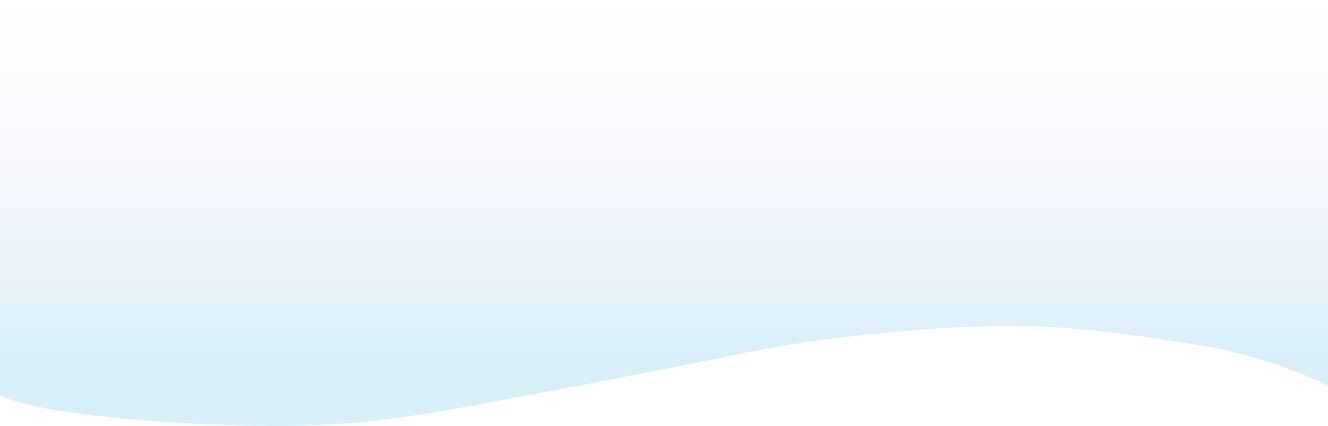
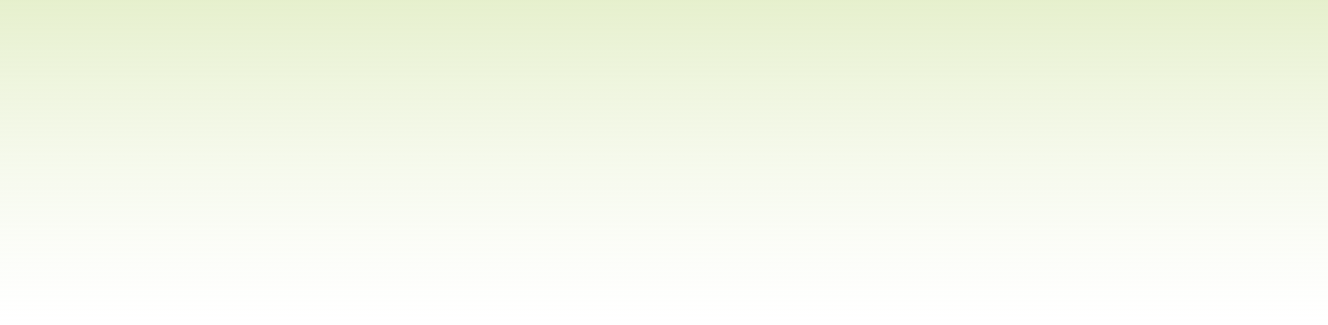
Tema 1

diff --git a/src/views/curso/Tema1.vue b/src/views/curso/Tema1.vue
@@ -1,11 +1,164 @@
 <template lang="pug">
 .curso-main-container.pb-3
-  BannerInterno(:subTitulo="'1. Título tema'")
+  BannerInterno(:subTitulo="'1. Patrimonio mundial'")
   .container.tarjeta.tarjeta--blanca.p-4.p-md-5.overflow-hidden
 
-    #t_1_1.titulo-segundo(data-aos="flip-up")
-      h2 #[span 1.1] Subtítulo tema
+    p Las bellas artes son la clasificación de las manifestaciones artísticas creativas que se enfocan en la expresión estética y la creación de obras valoradas por su belleza o su mensaje. Se considera que las bellas artes incluyen siete disciplinas principales: 
 
+    .bg-full-width.bg-fondo-1
+      .px-4.px-md-5.pb-md-3
+        .row.justify-content-center.mb-5
+          .col-lg-8
+    
+            SlyderF(columnas="col-12 col-lg-6")
+              .custom-image-card-2.h-100
+                img.custom-image-card__image(src="@/assets/curso/tema1/1.png" alt="")
+                .custom-image-card__text.p-4
+                  h5.mb-2.text-center Arquitectura
+              .custom-image-card-2.h-100
+                img.custom-image-card__image(src="@/assets/curso/tema1/2.png" alt="")
+                .custom-image-card__text.p-4
+                  h5.mb-2.text-center Escultura
+              .custom-image-card-2.h-100
+                img.custom-image-card__image(src="@/assets/curso/tema1/3.png" alt="")
+                .custom-image-card__text.p-4
+                  h5.mb-2.text-center Pintura
+              .custom-image-card-2.h-100
+                img.custom-image-card__image(src="@/assets/curso/tema1/4.png" alt="")
+                .custom-image-card__text.p-4
+                  h5.mb-2.text-center Música
+              .custom-image-card-2.h-100
+                img.custom-image-card__image(src="@/assets/curso/tema1/5.png" alt="")
+                .custom-image-card__text.p-4
+                  h5.mb-2.text-center Danza
+              .custom-image-card-2.h-100
+                img.custom-image-card__image(src="@/assets/curso/tema1/6.png" alt="")
+                .custom-image-card__text.p-4
+                  h5.mb-2.text-center Literatura
+              .custom-image-card-2.h-100
+                img.custom-image-card__image(src="@/assets/curso/tema1/7.png" alt="")
+                .custom-image-card__text.p-4
+                  h5.mb-2.text-center Cine
+    
+          .col-lg-4
+            figure
+              img(src='@/assets/curso/tema1/8.png', alt='')
+    
+        #t_1_1.titulo-segundo(data-aos="flip-up")
+          h2 #[span 1.1] El despertar del arte
+        
+    .row.mb-5
+      .col-lg-4
+        figure
+          img(src="@/assets/curso/tema1/9.png", data-aos="zoom-in")
+      .col-lg-8
+        p(data-aos="fade-left").mb-4 El arte como expresión humana parece tener su origen en la prehistoria, justo cuando los primeros humanos expresaron “su mundo” en algunas pinturas que se denomina arte rupestre, que fueron halladas en cavernas (cuevas). Aunque no es muy claro el propósito de estas expresiones, se cuenta con hipótesis sobre su objetivo narrativo, chamánico o como parte de algunas ceremonias o ritos espirituales. 
+    
+        .bg-color-1.p-4(data-aos="fade-left").mb-4
+          .row.align-items-center
+            .col-lg-auto
+              img(src="@/assets/curso/tema1/10.svg", style="max-width: 90px").mx-auto
+            .col-lg
+              p.mb-0  El término de arte rupestre está relacionado con las expresiones artísticas sobre roca, a través de pinturas, grabados (petroglifos), relieve escultórico y geoglifo. De manera descriptiva, estas primeras expresiones representaban escenas de la vida cotidiana de los humanos en sus contextos históricos, incluyendo animales, seres sobrenaturales y algunas representaciones que hoy son consideradas narrativas de la cosmovisión de los antiguos. 
+        
+    .row.mb-5
+      .col-lg-8
+        p(data-aos="fade-left")  Las escenas de arte rupestre más antiguas de la humanidad, datan de 51.200 años, y fueron encontradas en cuevas ubicadas en la isla de Célebes en Indonesia. Las pinturas incluyen un cerdo salvaje y algunas figuras humanas. En Colombia, las muestras de arte rupestre más antiguas se encuentran en del departamento del Guaviare, específicamente en la serranía de la Lindosa; datan de 8.000 – 12.000 años de antigüedad e incluyen patrones geométricos, figuras humanas y de animales como tapires y cueros de caimanes; algunos afirman que esas figuras de animales pertenecen a la megafauna que vivió junto a estos humanos en la edad del hielo.
+    
+        .bg-color-3.p-4(data-aos="fade-left").mb-4
+          p.mb-0 Estas primeras expresiones de arte no son solamente importantes para los artistas o para los conocedores del arte; son una valiosa fuente de información para arqueólogos, antropólogos e historiadores, porque brindan información valiosa sobre vida y cultura de los pueblos prehistóricos. Son una forma de preservar la memoria y la identidad de esos primeros habitantes y demuestran que el arte es tan humano como el lenguaje oral y escrito.  
+
+        p Tomemos una pausa para hablar de Leonardo Da Vinci:
+    
+      .col-lg-4
+        figure
+          img(src="@/assets/curso/tema1/11.png", data-aos="zoom-in")
+    
+    .bg-full-width.bg-fondo-slider.mb-5
+      .p-4.p-md-5
+        SlyderA(tipo="b").bg-white
+          .row.align-items-center.p-4.p-md-5
+            .col-lg-5
+              figure
+                img(src="@/assets/curso/tema1/slide-1.png")
+            .col-lg-7
+              p Leonardo Da Vinci fue uno de los grandes maestros del renacimiento europeo, nacido en el año 1452 en Italia. Fue pintor, anatomista, arquitecto, paleontólogo, botánico, escritor, escultor, filósofo, ingeniero, inventor, músico, poeta y urbanista. Su curiosidad, interés por la invención y sus capacidades científicas y naturalistas, le concedieron un gran lugar en la historia del arte. 
+          .row.align-items-center.p-4.p-md-5
+            .col-lg-5
+              figure
+                img(src="@/assets/curso/tema1/slide-2.png")
+            .col-lg-7
+              p Dentro de sus obras emblemáticas están La Gioconda, La Última Cena, El Hombre de Vitruvio, La dama de armiño. Leonardo Da Vinci, vivió junto a otros artistas y compartió conocimientos, experiencias y hasta competencia artística.
+          .row.align-items-center.p-4.p-md-5
+            .col-lg-5
+              figure
+                img(src="@/assets/curso/tema1/slide-3.png")
+            .col-lg-7
+              p Hoy se reconoce que ese gran movimiento artístico dejó uno de los mayores legados a la humanidad: el Renacimiento. Un período de gran transformación cultural y artística, durante los siglos XIV y XVI, su principal cualidad es el interés “renacido” por la cultura clásica grecorromana, haciendo del humano el centro de interés para todas las cosas, incluso con una gran herencia de arte asociado a la Iglesia Católica. 
+          .row.align-items-center.p-4.p-md-5
+            .col-lg-5
+              figure
+                img(src="@/assets/curso/tema1/slide-4.png")
+            .col-lg-7
+              p Aunque se reconoce su influencia en el arte, el Renacimiento fue una transición entre la edad media y la edad moderna, con profundas influencias en la teología, filosofía y la ciencia; más que un movimiento artístico, fue un movimiento histórico – cultural. 
+          .row.align-items-center.p-4.p-md-5
+            .col-lg-5
+              figure
+                img(src="@/assets/curso/tema1/slide-5.png")
+            .col-lg-7
+              p Dentro de los aportes de Da Vinci al arte, tenemos su gran innovación en las formas de expresión, la estética de sus trazos y el uso de recursos innovadores en la pintura. Sus paisajes, retratos humanos y estudios anatómicos, siguen siendo parte de las clases magistrales en la actualidad, la forma como usaba el arte y la expresión para mostrar el detalle, la composición y la iluminación, demuestran su gran capacidad de comunicar. 
+          .row.align-items-center.p-4.p-md-5
+            .col-lg-5
+              figure
+                img(src="@/assets/curso/tema1/slide-6.png")
+            .col-lg-7
+              p Dentro de sus contribuciones más destacadas están en la anatomía humana, pues a través de su ejercicio autodidacta, llevó a la práctica disecciones humanas, que le permitieron representar con precisión, la figura humana, algo muy avanzado para su época. 
+
+
+          .row.align-items-center.p-4.p-md-5
+            .col-lg-5
+              figure
+                img(src="@/assets/curso/tema1/slide-7.png")
+            .col-lg-7
+              p No es posible saber qué sería del arte o de la medicina sin los aportes de Leonardo; lo que, sí se sabe, es que conocer a detalle su historia, sus obras y las formas como las construyó, siguen siendo motivo de admiración, curiosidad e interés, para artistas contemporáneos, historiadores y los apasionados de la cultura. 
+
+    #t_1_2.titulo-segundo(data-aos="flip-up")
+      h2 #[span 1.2] El arte en las culturas orientales
+    
+
+    .bg-full-width.bg-fondo-2
+      .px-4.px-md-5.pb-md-3
+        p Aunque gran parte del conocimiento del arte se aborda desde la antigua Grecia y vincula todos los hitos europeos, las culturas china, persa, japonesa e hindú, tienen elementos del arte que reflejan la grandeza de su cultura, filosofías, creencias y tradiciones. En los siguientes videos, se reconocen algunos elementos diferenciales del arte en estas naciones:
+
+        .row.justify-content-center.align-items-stretch.mb-5
+          .col-lg-3.mb-4(data-aos="zoom-in-up")
+            .custom-image-card-2.h-100
+              img.custom-image-card__image(src="@/assets/curso/tema1/12.png" alt="")
+              .custom-image-card__text.p-4.d-flex.align-items-start
+                img.me-3(src='@/assets/componentes/link.svg' :style="{'max-width':'16px'}")
+                a(href="https://www.youtube.com/watch?v=-m_hg5ZtGX8" target="_blank" rel="noopener noreferrer" class="h4") Arte antiguo China
+
+
+          .col-lg-3.mb-4(data-aos="zoom-in-down")
+            .custom-image-card-2.h-100
+              img.custom-image-card__image(src="@/assets/curso/tema1/13.png" alt="")
+              .custom-image-card__text.p-4.d-flex.align-items-start
+                img.me-3(src='@/assets/componentes/link.svg' :style="{'max-width':'16px'}")
+                a(href="https://www.youtube.com/watch?v=o6yRcT8Iz-o" target="_blank" rel="noopener noreferrer" class="h4") Arte antiguo Japón
+          .col-lg-3.mb-4(data-aos="zoom-in-down")
+            .custom-image-card-2.h-100
+              img.custom-image-card__image(src="@/assets/curso/tema1/14.png" alt="")
+              .custom-image-card__text.p-4.d-flex.align-items-start
+                img.me-3(src='@/assets/componentes/link.svg' :style="{'max-width':'16px'}")
+                a(href="https://www.youtube.com/watch?v=lJGk9lRuG9Y" target="_blank" rel="noopener noreferrer" class="h4") Arte antiguo India
+          .col-lg-3.mb-4(data-aos="zoom-in-down")
+            .custom-image-card-2.h-100
+              img.custom-image-card__image(src="@/assets/curso/tema1/15.png" alt="")
+              .custom-image-card__text.p-4.d-flex.align-items-start
+                img.me-3(src='@/assets/componentes/link.svg' :style="{'max-width':'16px'}")
+                a(href="https://www.youtube.com/watch?v=a-0ux-mn5IM" target="_blank" rel="noopener noreferrer" class="h4") Arte antiguo Persia
+        
+        
     .bg-full-width.border-top.color-primario
       .p-4.p-md-5
         h2(data-aos="fade-left") MATERIAL COMPLEMENTARIO

diff --git a/src/styles/_variables.sass b/src/styles/_variables.sass
@@ -55,7 +55,7 @@ $color-institucional-terciario: #E5782D
 
 // Colores Curso ---------------------------------------
 
-$color-primario: #5d5aad
+$color-primario: #86B60C
 $color-secundario: #FFDD33
 $color-terciario: #3BC0F2
 $color-acento-contenido: #86B60C
@@ -73,8 +73,8 @@ $border-color-items-hover: $color-institucional
 $color-fondo-home: #F2F7E5
 
 // Colores Slyder
-$bg-fondo-slider: darken($color-primario, 20%) !important
-$bg-bullets-slider-activo: lighten($color-primario, 20%) !important
+$bg-fondo-slider: #1D7083 !important
+$bg-bullets-slider-activo: lighten(#1D7083, 20%) !important
 
 // Color Tipografias -----------------------------------
 $color-headers: $color-sistema-texto

diff --git a/src/styles/_custom.sass b/src/styles/_custom.sass
@@ -52,10 +52,10 @@
 .bg-fondo
   &-1
     background-image: url("../assets/bg/bg1.png") !important
-    background-position: top
+    background-position: 0 200px
   &-2
-    // background-image: url("../assets/bg/bg2.png") !important
-    background-position: bottom
+    background-image: url("../assets/bg/bg2.png") !important
+    background-position: top
   &-slider
     background-image: url("../assets/bg/bg-slider.png") !important
     background-position: bottom

diff --git a/src/config/global.js b/src/config/global.js
@@ -1,7 +1,7 @@
 export default {
   global: {
-    numeroUnidad: '3',
-    tituloUnidad: 'Bioética y sostenibilidad en el desarrollo económico global',
+    numeroUnidad: '1',
+    tituloUnidad: 'Arte',
   },
   menuPrincipal: {
     menu: [
